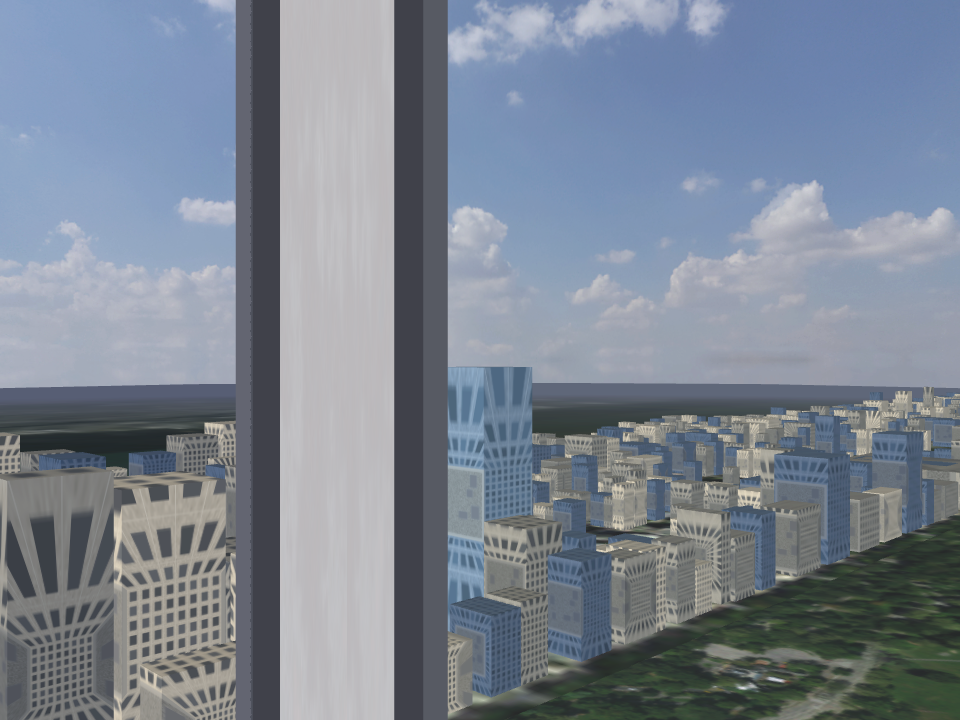
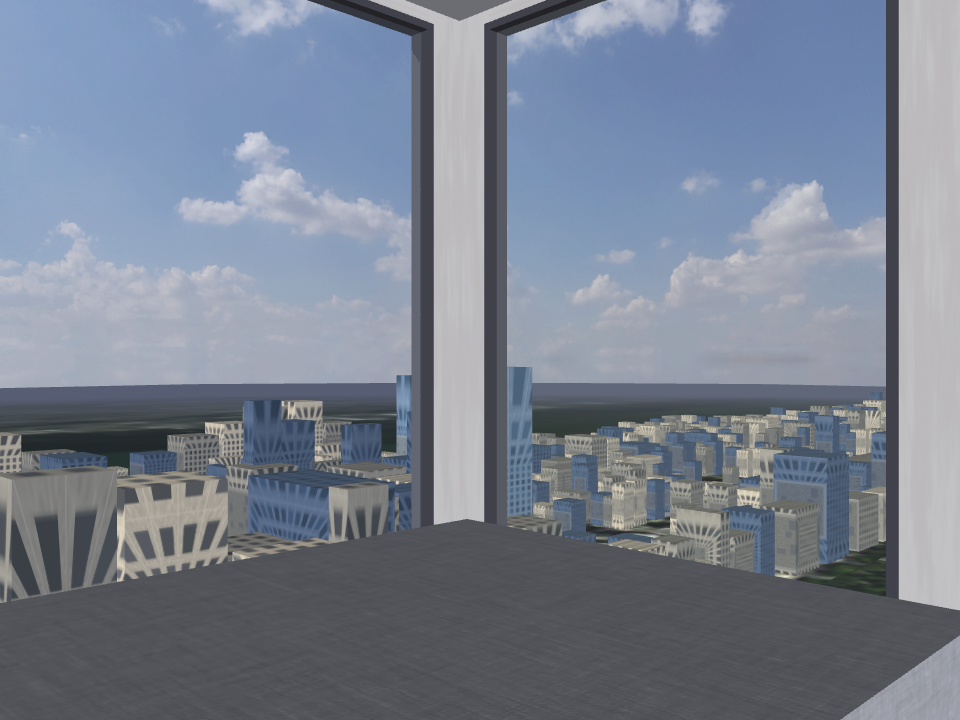
V7 机位退后：贴着玻璃拍不到主卧
第一版站在离转角 2 m 处，整张图全是窗外的曼哈顿——标题写主卧转角窗，
图上却既没有主卧也没有窗框。退到房间东南角（离转角约 6 m），
两面玻璃的转角接缝和床才一起进画面。

⚠ 和 apt1 那条相机贴玻璃太近会被自家竖挺和窗台占掉半张画面是同一类错的两个方向。

diff --git a/scenes/apt2/shots.py b/scenes/apt2/shots.py
@@ -63,8 +63,11 @@ EYE = [
      "62 层楼梯间：24 踢面/层的双跑楼梯，梯井竖着通到 63 层"),
     ("V6", "V6-上层环廊.png", (_MEZ[0] + 1.0, _MEZ[1] + 0.8, _F1 + HUMAN_EYE), 60,
      "63 层挑空环廊：右下那道白色实心栏板之外，就是 3.75 m 下去的双高客厅"),
-    ("V7", "V7-主卧转角窗.png", (_L.X0 + 2.4, _L.Y3 - 1.8, _F1 + HUMAN_EYE), 135,
-     "63 层主卧：西北转角两面落地窗"),
+    # ⚠ 相机别贴着玻璃：第一版站在离转角 2 m 处，整张图全是窗外的曼哈顿、
+    #    一点屋子都看不见——标题说"主卧转角窗"，图上却既没有主卧也没有窗框。
+    #    退到房间东南角（离转角约 6 m），床和两面窗才一起进画面。
+    ("V7", "V7-主卧转角窗.png", (_L.X0 + 4.5, _L.Y2 + 1.8, _F1 + HUMAN_EYE), 135,
+     "63 层主卧：西北转角两面落地窗，床摆在转角前"),
     ("V8", "V8-狗视角-画廊.png", (_GAL[0] + 1.0, (_GAL[1] + _GAL[3]) / 2.0, DOG_EYE), 0,
      "画廊展线，机器狗视角"),
 ]
